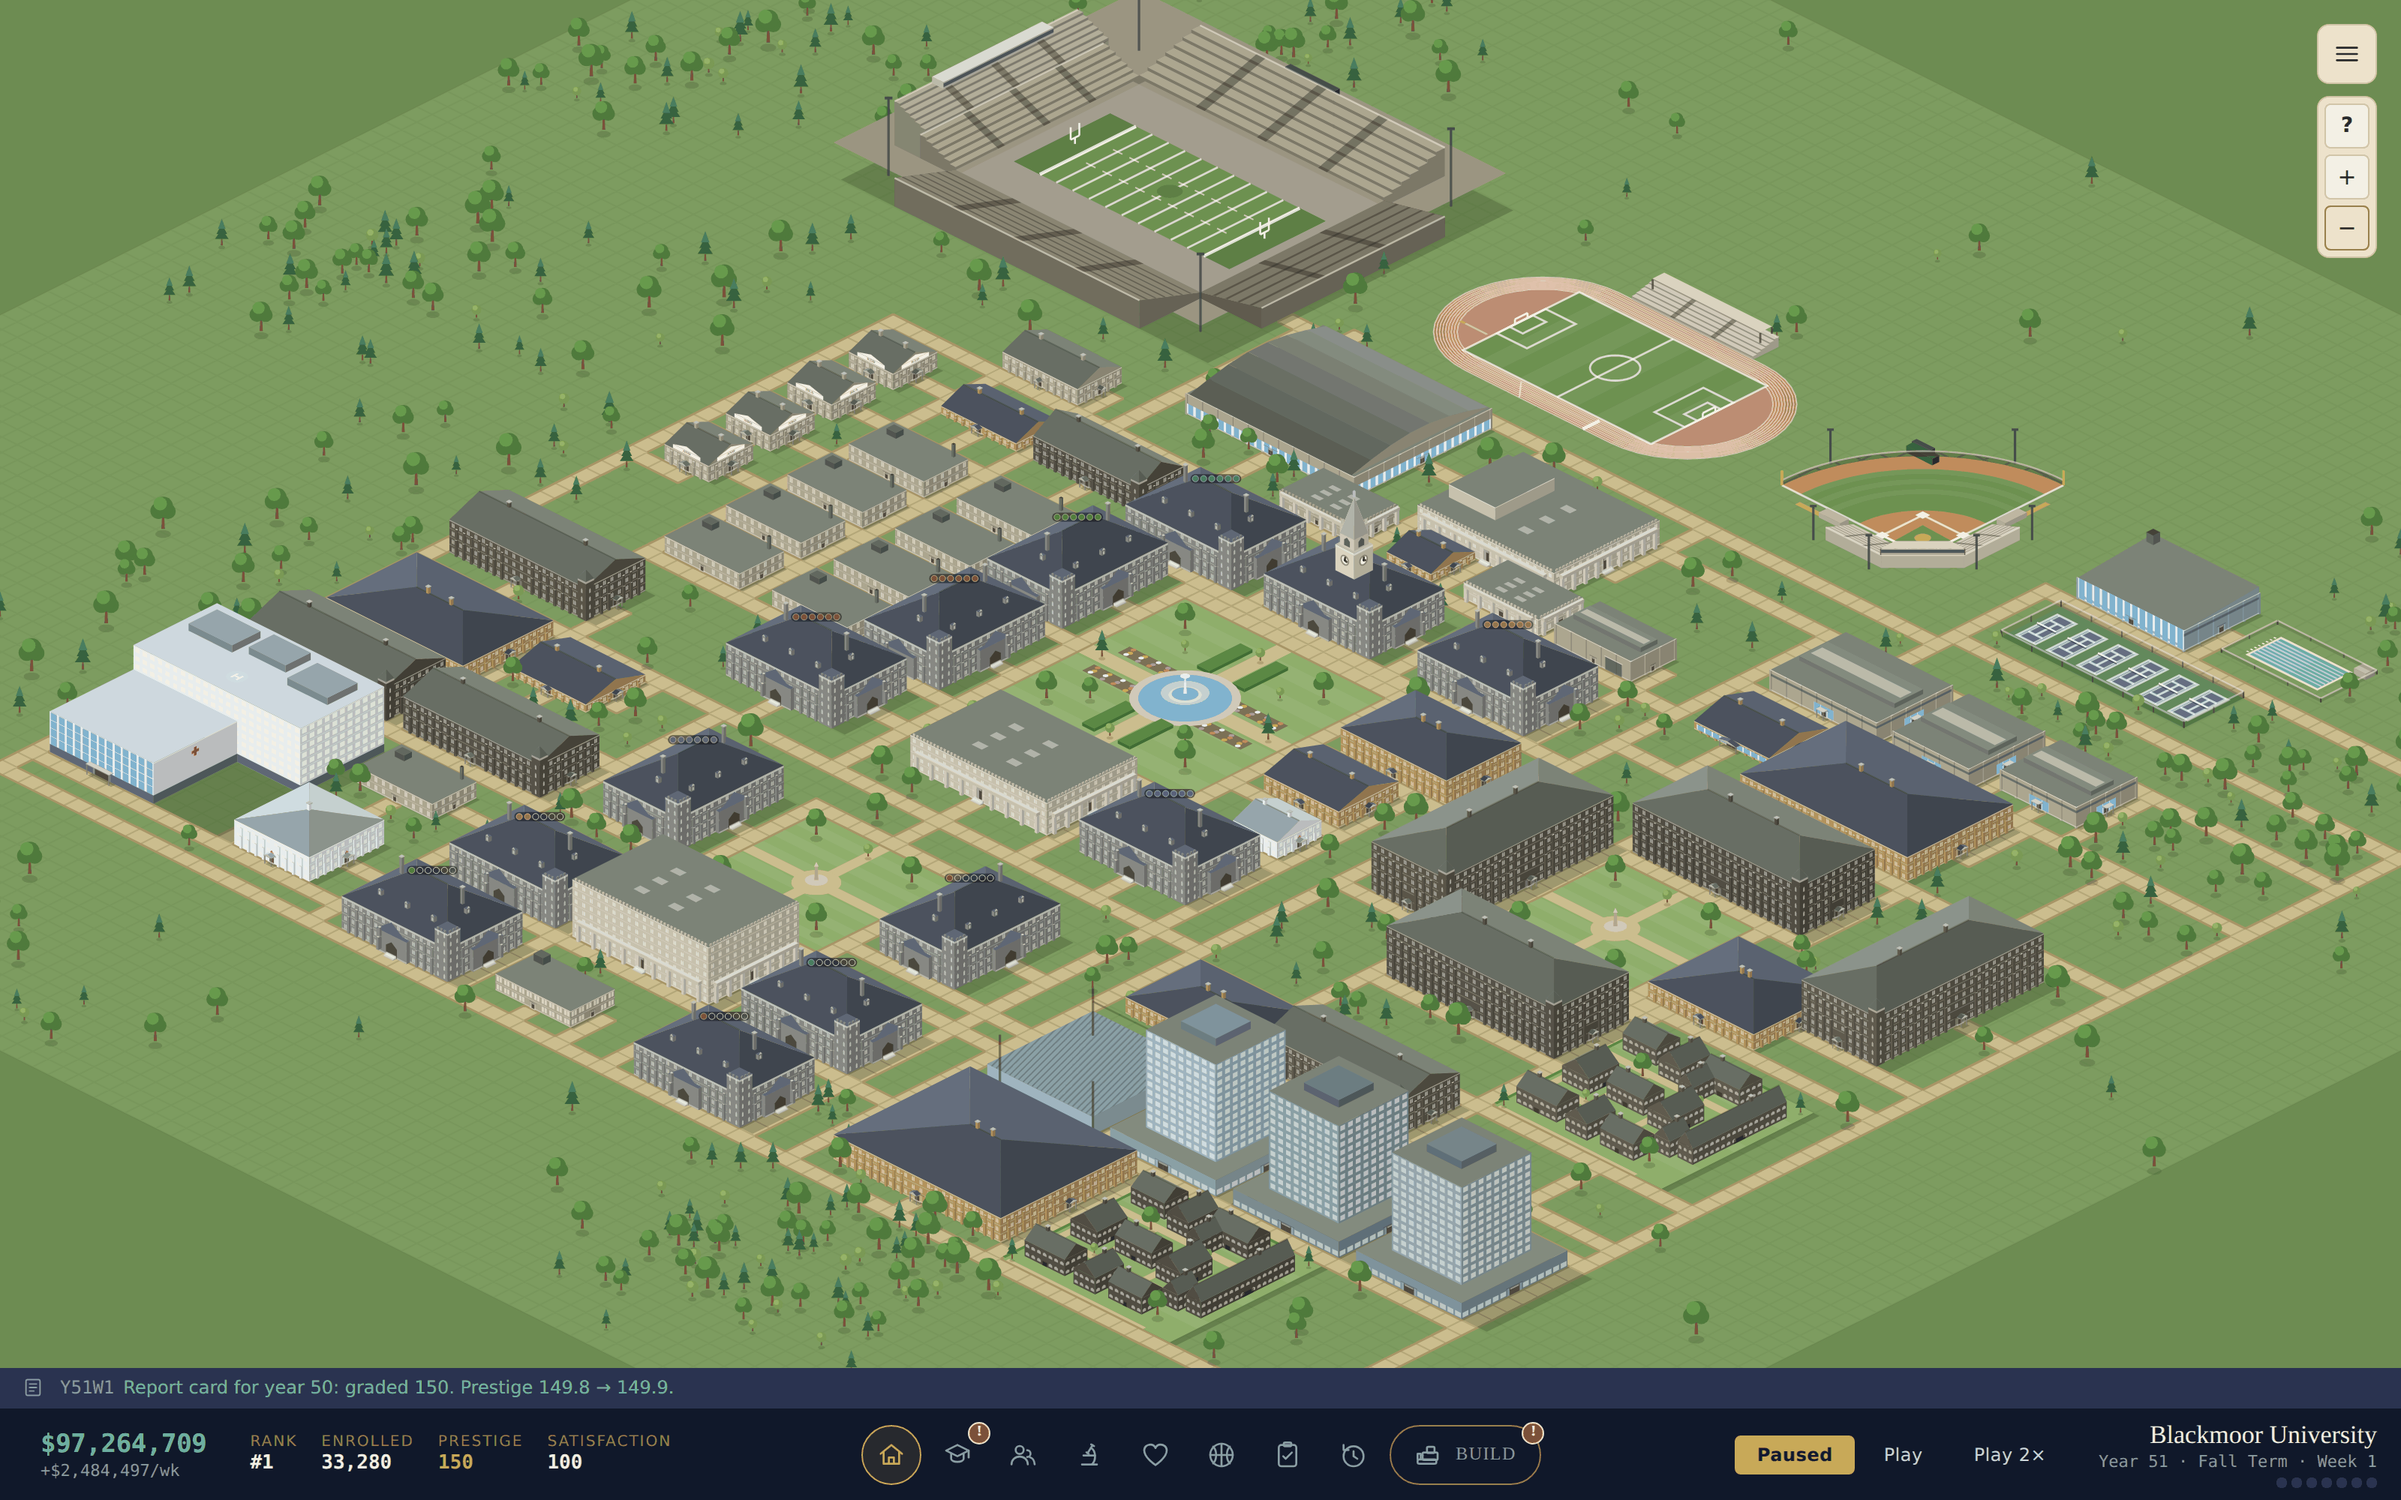
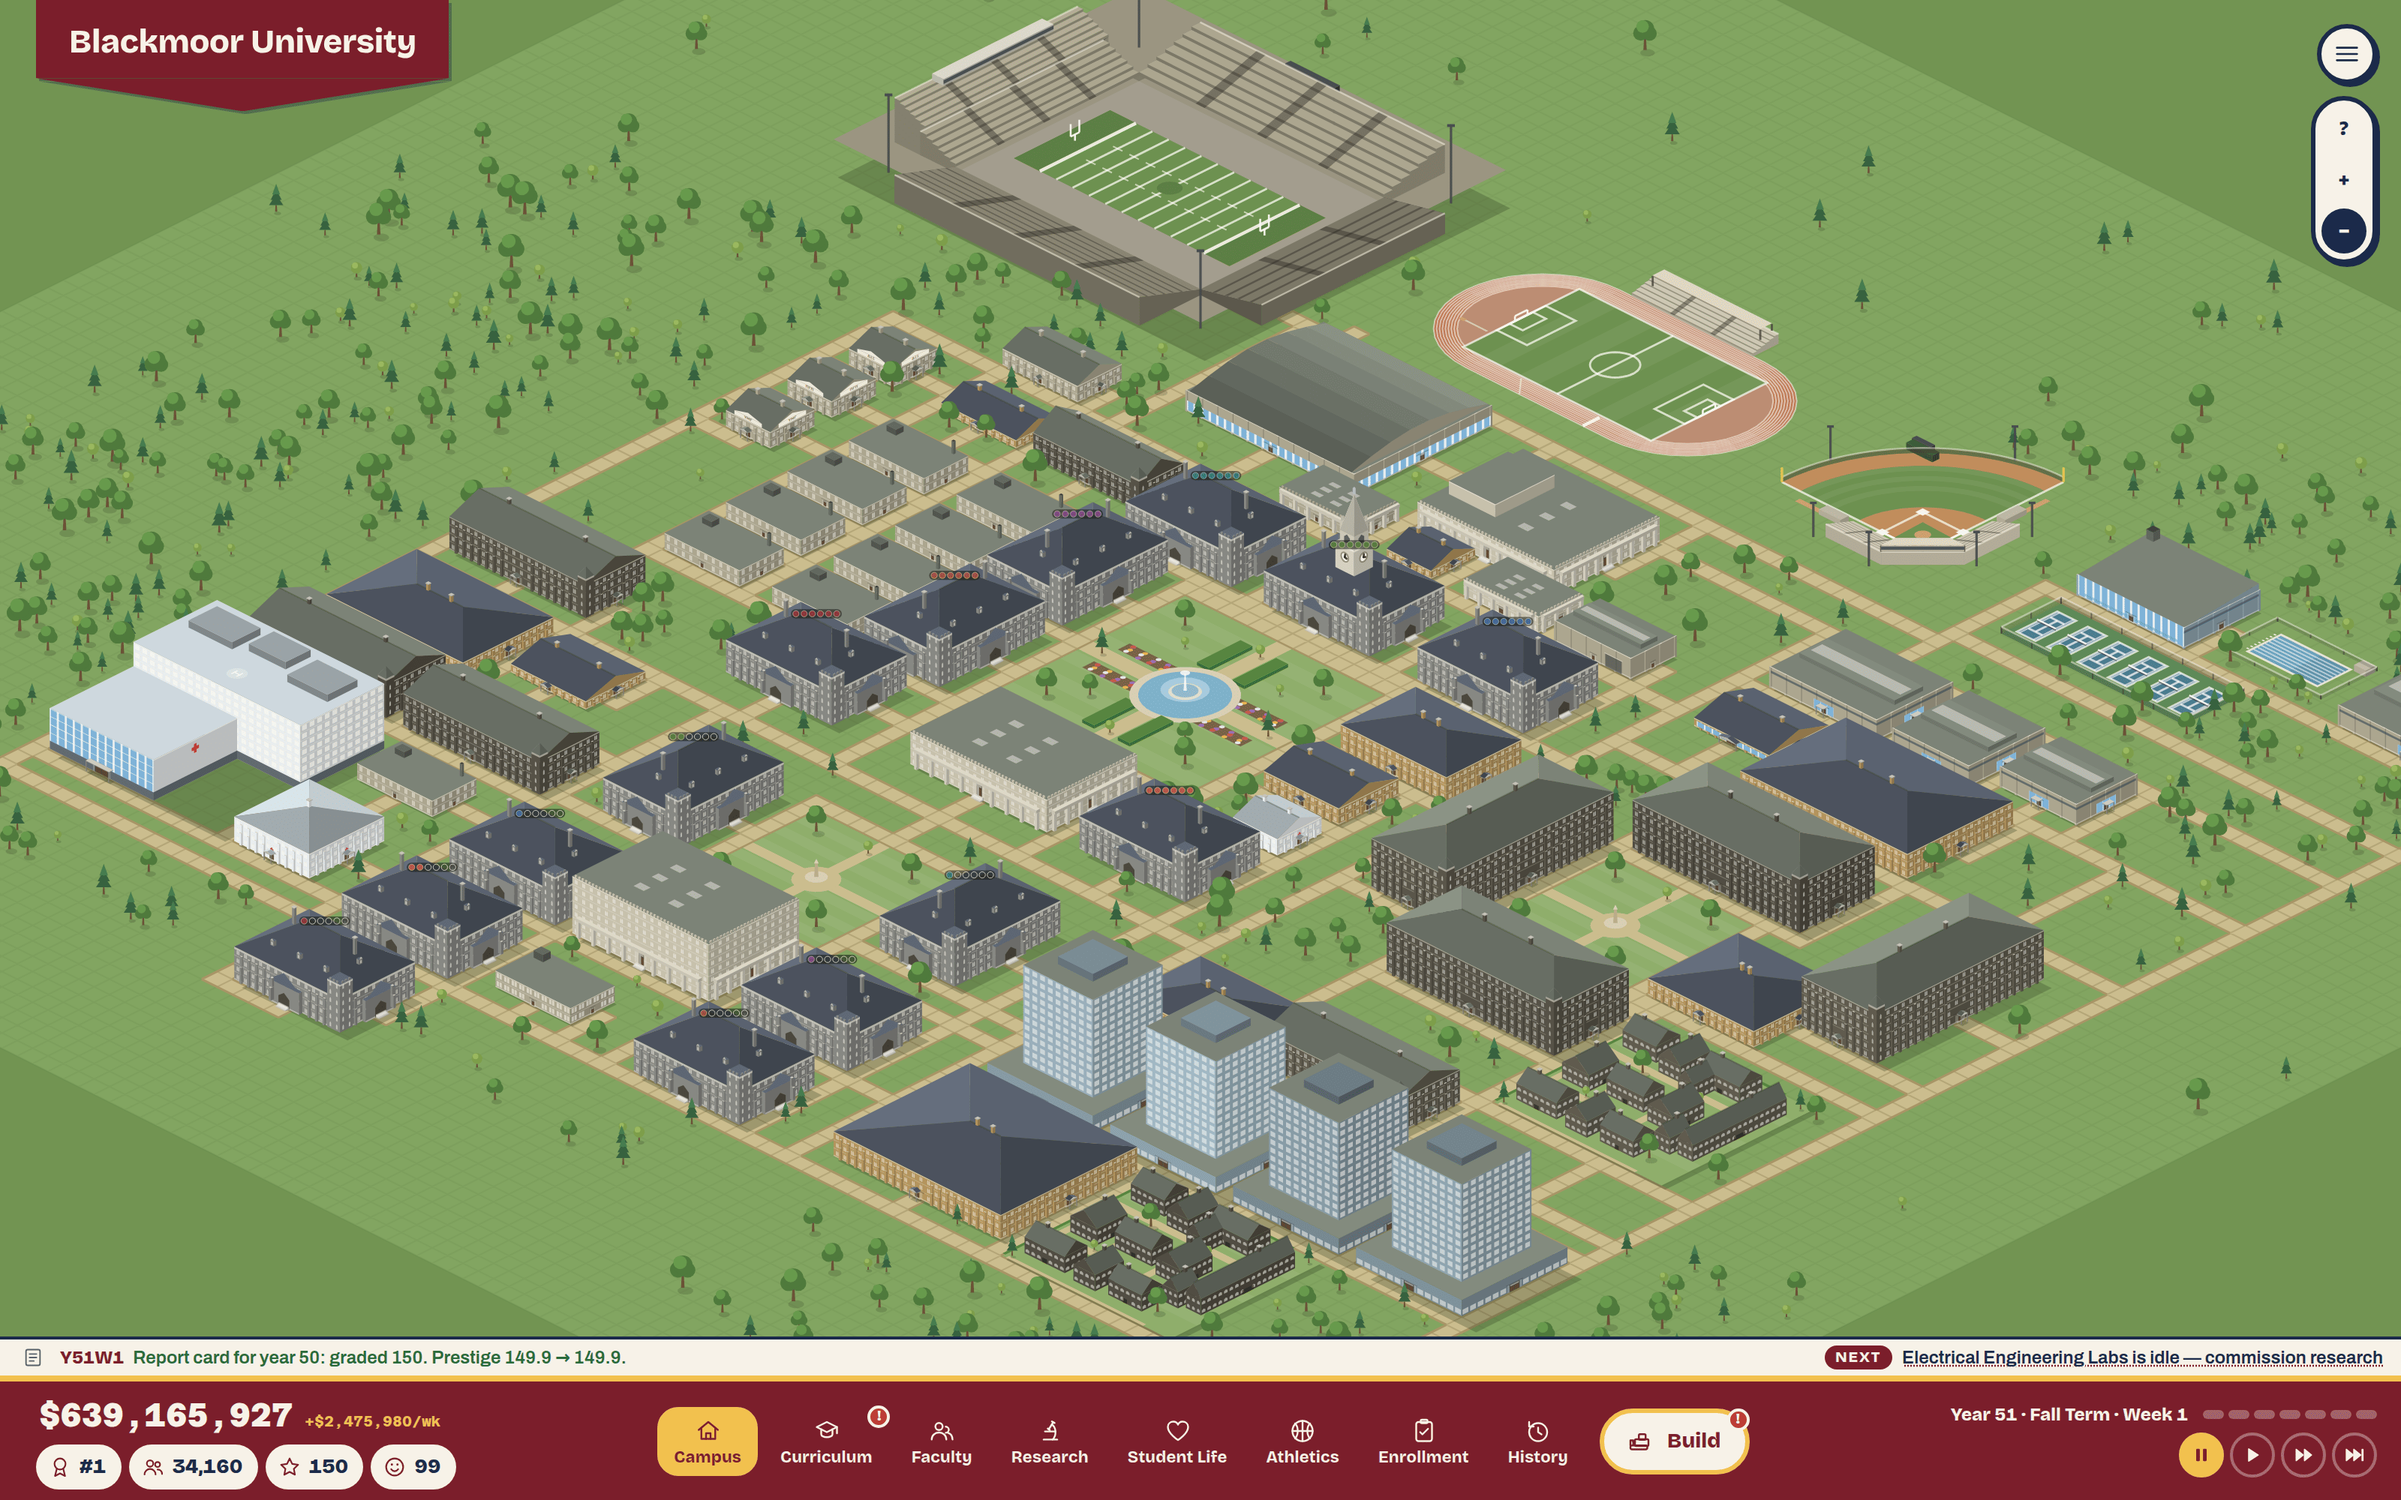
Re-shoot the README and docs screenshots, and add one per tab
The campus renders, the four vernacular comparisons and the summer
admissions card were photographed before the chrome moved to its current
register, and the admissions card before the summer became four beats.
All six are re-shot from the same recipe (a year-50 Completionist run with
--build-all, laid out by tools/layout.ts, the summer scenario for the
card), and the eight tabs join them as docs/images/tab-*.png on the same
save, with a gallery in the README.

tools/shoot.mjs grows three flags so the set stays reproducible: --tab
opens a view through the toolbar's own button, --click steps a held modal
through its beats, and --element crops to one element. It also parks the
pointer before the shot, so a hover tooltip from the last click is not in
it. tools/layout.ts gains an anchor for the Field House (Plan 21), which
the overflow strip was too narrow to take.

Claude-Session: https://claude.ai/code/session_01A9HNtwGZTvazw4XFwgVZPK

diff --git a/unischool/tools/layout.ts b/unischool/tools/layout.ts
@@ -166,6 +166,9 @@ const PLAN: Site[] = [
   { id: 'ATH-NATATORIUM', row: 23, col: 86 },
   { id: 'POOL', row: 23, col: 94 },
   { id: 'TENNIS-COURTS', row: 29, col: 86 },
+  // The field house (Plan 21's PR Q) closes the corner east of the pool,
+  // on the same lane as the aquatic centre.
+  { id: 'ATH-FIELDHOUSE', row: 22, col: 103 },             // 9x6
 ];
 
 // GREEK ROW. A chapter house granted by an event carries an id minted at

diff --git a/README.md b/README.md
@@ -90,6 +90,23 @@ the management interfaces, curriculum presentation, faculty interaction and
 the research systems. There is no art pipeline yet; everything on screen is
 drawn from data.
 
+## The interfaces
+
+Every view other than the map is a full screen laid over it, with the dock
+kept on top. These are year 51 of a finished school — the same run as the
+campus above — one screen per tab, in the toolbar's order.
+
+| | |
+|---|---|
+| ![The Curriculum tab: the catalogue by school and department, every course carrying its instructor and grade](docs/images/tab-curriculum.png) | ![The Faculty tab: payroll, the market, and each department's roster against its catalogue](docs/images/tab-faculty.png) |
+| **Curriculum** — 427 courses by school and department, each with who teaches it and the grade they earn. | **Faculty** — the roster and the market, department by department, against what the catalogue needs. |
+| ![The Research tab: every lab with its initiative, team, depth and progress](docs/images/tab-research.png) | ![The Student Life tab: satisfaction by attribute, clubs and Greek chapters](docs/images/tab-studentlife.png) |
+| **Research** — each lab's running initiative: the topic, the team, the depth and what it has produced. | **Student Life** — satisfaction by attribute and what serves it, the clubs, the chapters and the demands. |
+| ![The Athletics tab: the athletic director, the department's finances and the varsity programs](docs/images/tab-athletics.png) | ![The Enrollment tab: the four classes by audience, and last summer's funnel](docs/images/tab-enrollment.png) |
+| **Athletics** — the director, the subsidy and the gate, and every program with its staff. | **Enrollment** — the standing body class by class, and the funnel the last summer decision produced. |
+| ![The History tab: the three standings and every input that grades them](docs/images/tab-history.png) | ![The Treasury tab: the weekly income statement, the endowment campaign and the balance](docs/images/tab-treasury.png) |
+| **History** — the three standings with every input that grades them, and the legacy once sealed. | **Treasury** — the weekly income statement, the endowment campaign and the balance sheet. |
+
 ## Run it
 
 ```bash

diff --git a/unischool/tools/README.md b/unischool/tools/README.md
@@ -83,6 +83,30 @@ is beside it — `campus-gothic.png`, `campus-classical.png`,
 `campus-mission.png` and `campus-modern.png` — which is the honest comparison
 the vernaculars want: one layout, one save, only the architecture changing.
 
+### The tabs and the modals
+
+The same driver photographs the screens laid over the map. `--tab=<id>`
+opens one through the toolbar's own button (a `TabNav.tsx` id: `curriculum`,
+`faculty`, `research`, `studentlife`, `athletics`, `enrollment`, `history`,
+or `treasury`, which has no icon and is reached through the funds figure),
+`--click=<text>` presses a button by its text and repeats, which is how a
+modal the save is holding gets stepped through, and `--element=<selector>`
+crops the PNG to one element. `docs/images/tab-*.png` are the eight tabs on
+the same year-50 save as the campus, and `summer-admissions.png` is the
+summer scenario's third beat, once the price is set and the pool it drew is
+on screen — in a taller viewport, since the card is taller than the modal's
+scroll box:
+
+```sh
+for t in curriculum faculty research studentlife athletics enrollment history treasury; do
+  npm run shot -- node_modules/.tmp/out.json docs/images/tab-$t.png --tab=$t --scale=2
+done
+npm run scenario -- summer node_modules/.tmp/summer.json
+npm run shot -- node_modules/.tmp/summer.json docs/images/summer-admissions.png \
+  --size=1600,1700 --click="Continue →" --click="Continue →" \
+  --click="Set tuition for the year →" --element=.modal --scale=2
+```
+
 ### Every motif on one page
 
 The campus renders show the assets together; they cannot show every motif, and

diff --git a/BACKLOG.md b/BACKLOG.md
@@ -284,9 +284,11 @@ in a way that forecloses them.*
   drawn for the 2:1 pixel grid and shimmer off it. What is left is polish:
   a look at the stands from behind.
 - Moving pedestrians.
-- More README screenshots as the presentation work lands: the curriculum
-  map, the faculty roster, a research run, and a late-game campus. The two
-  in `docs/images/` are a founding campus and the summer decision.
+- ~~More README screenshots as the presentation work lands~~ — **delivered**:
+  the README carries the year-51 campus, the summer admissions card and one
+  screen per tab, all re-shot from the same save through `npm run shot`'s
+  `--tab`, `--click` and `--element` flags (see `unischool/tools/README.md`).
+  What is left is re-shooting them as the presentation moves.
 - Sound and music.
 - Art and presentation, after [Plan 18](docs/plans/18-the-look.md). The
   chrome is settled: one register (the school's own colours on cream, one
